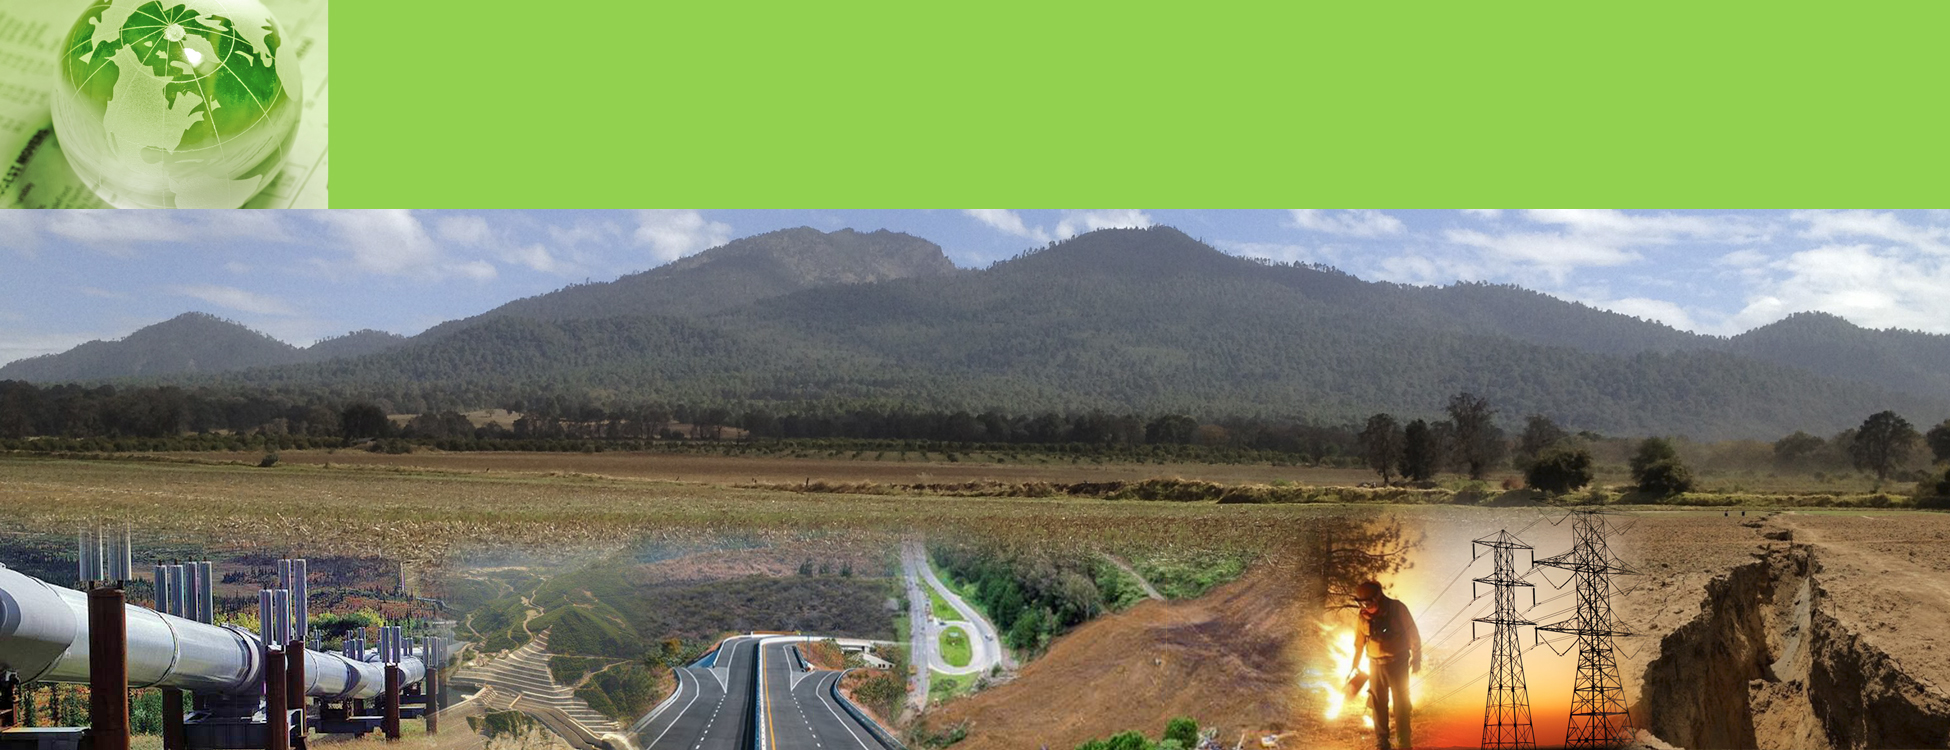
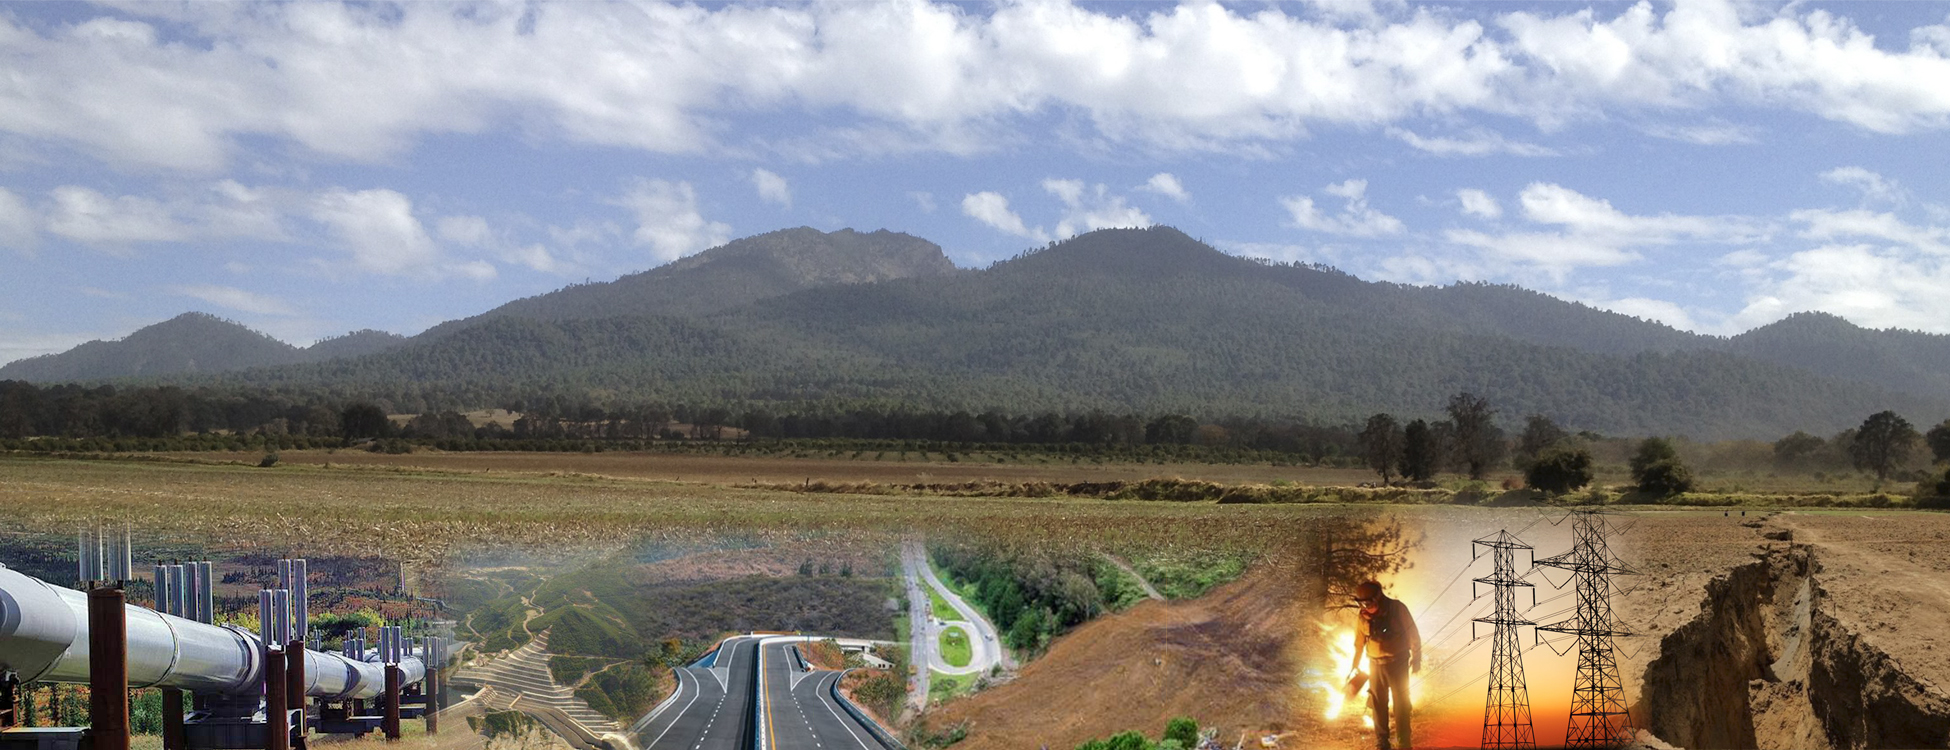
cambiamos el poster y el tema central

Changed region(s): [[0.0, 0.0, 1.0, 0.276]]

diff --git a/websimposio2020/core/templates/core/home.html b/websimposio2020/core/templates/core/home.html
@@ -15,7 +15,7 @@
 					<!-- Coundown Timer -->
 					<div class="timer"></div>
 					<h3>XVI Simposio Nacional y VIII Internacional de Valuación Rural</h3>
-					<h4>El valor del suelo ante cambio de uso por derecho  de vía o desastres</h4>
+					<h4>El valor del suelo ante cambio de uso por liberación de derechos de vía o desastres</h4>
 					<h6>27-29 Agosto 2020 Morelia</h6>
 					<!-- Action Button -->
 					<a href="{%url 'Inscripcion'%}" class="btn btn-white-md">inscribete ahora</a>
